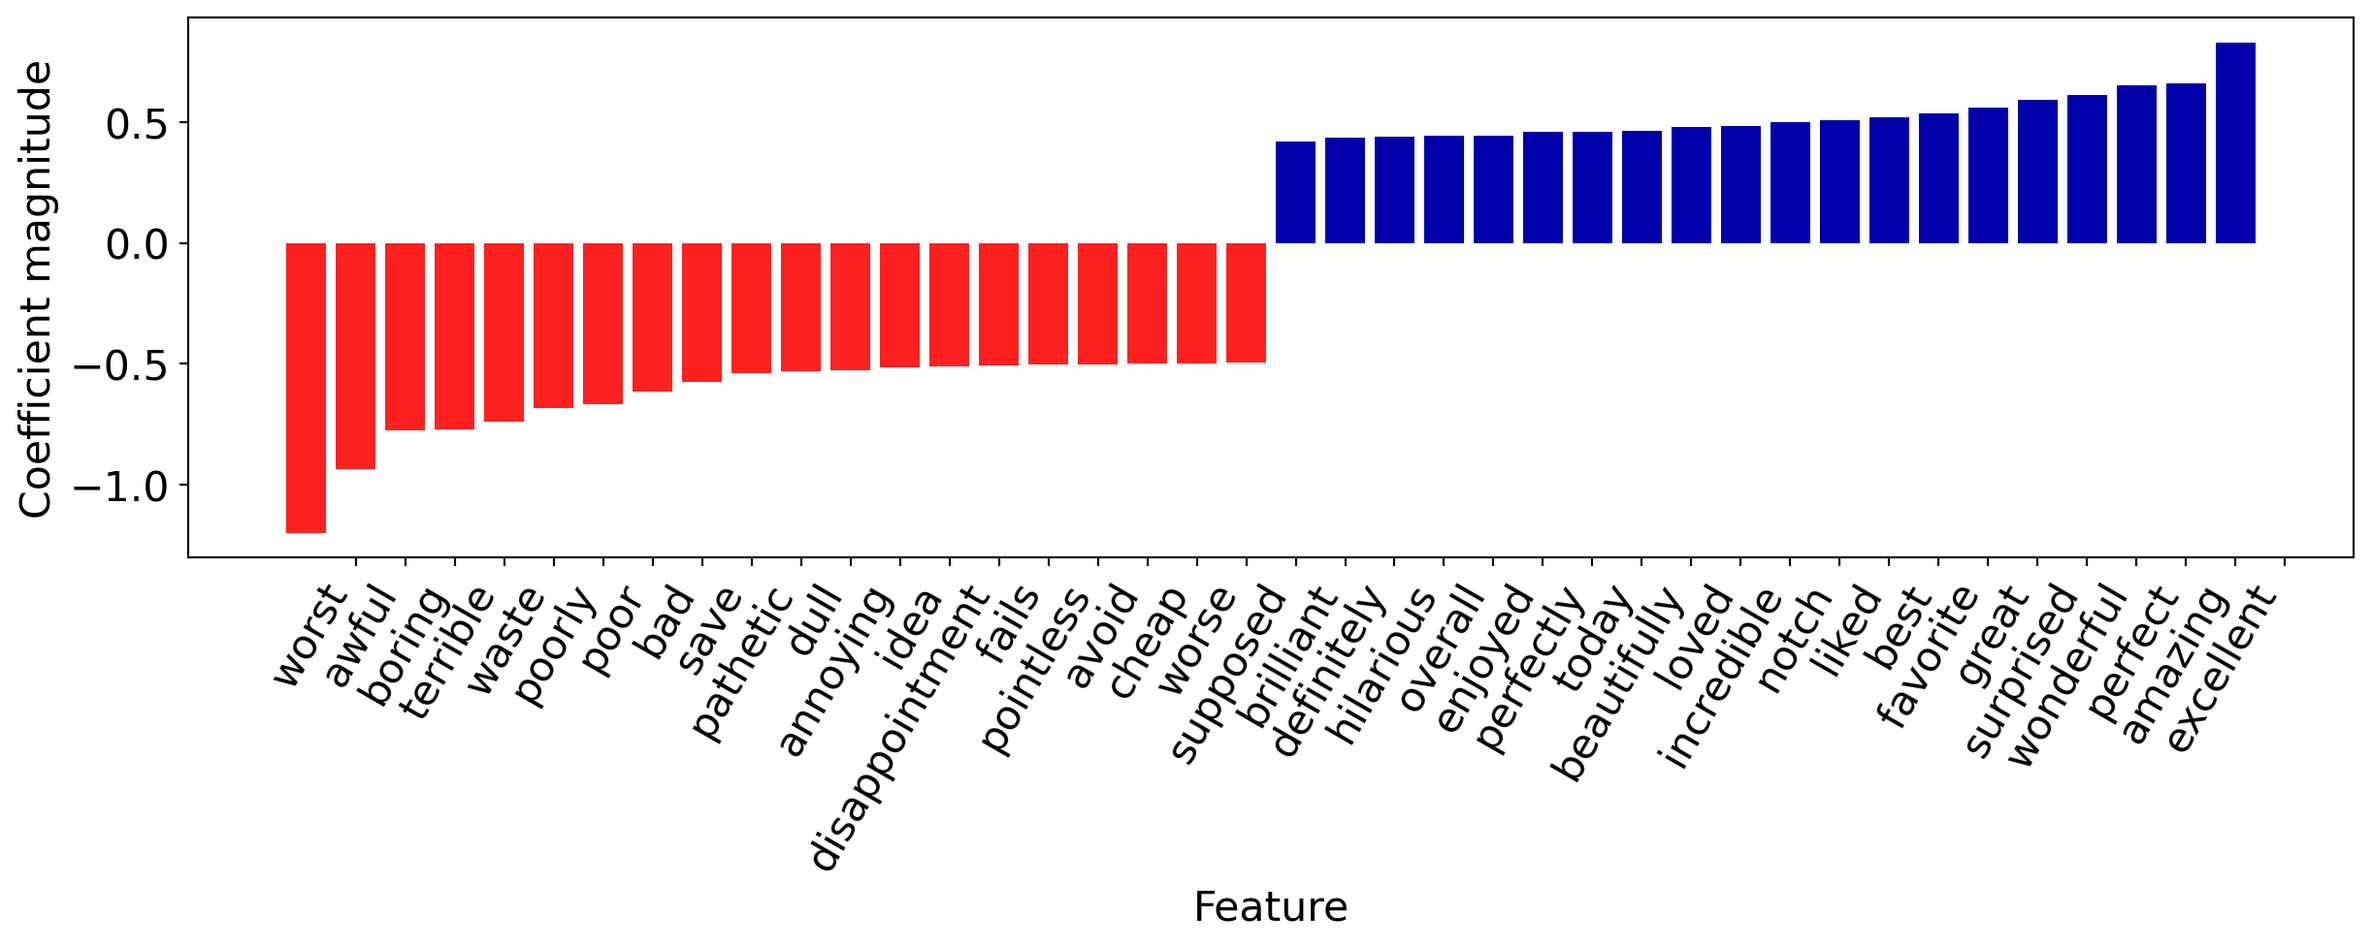
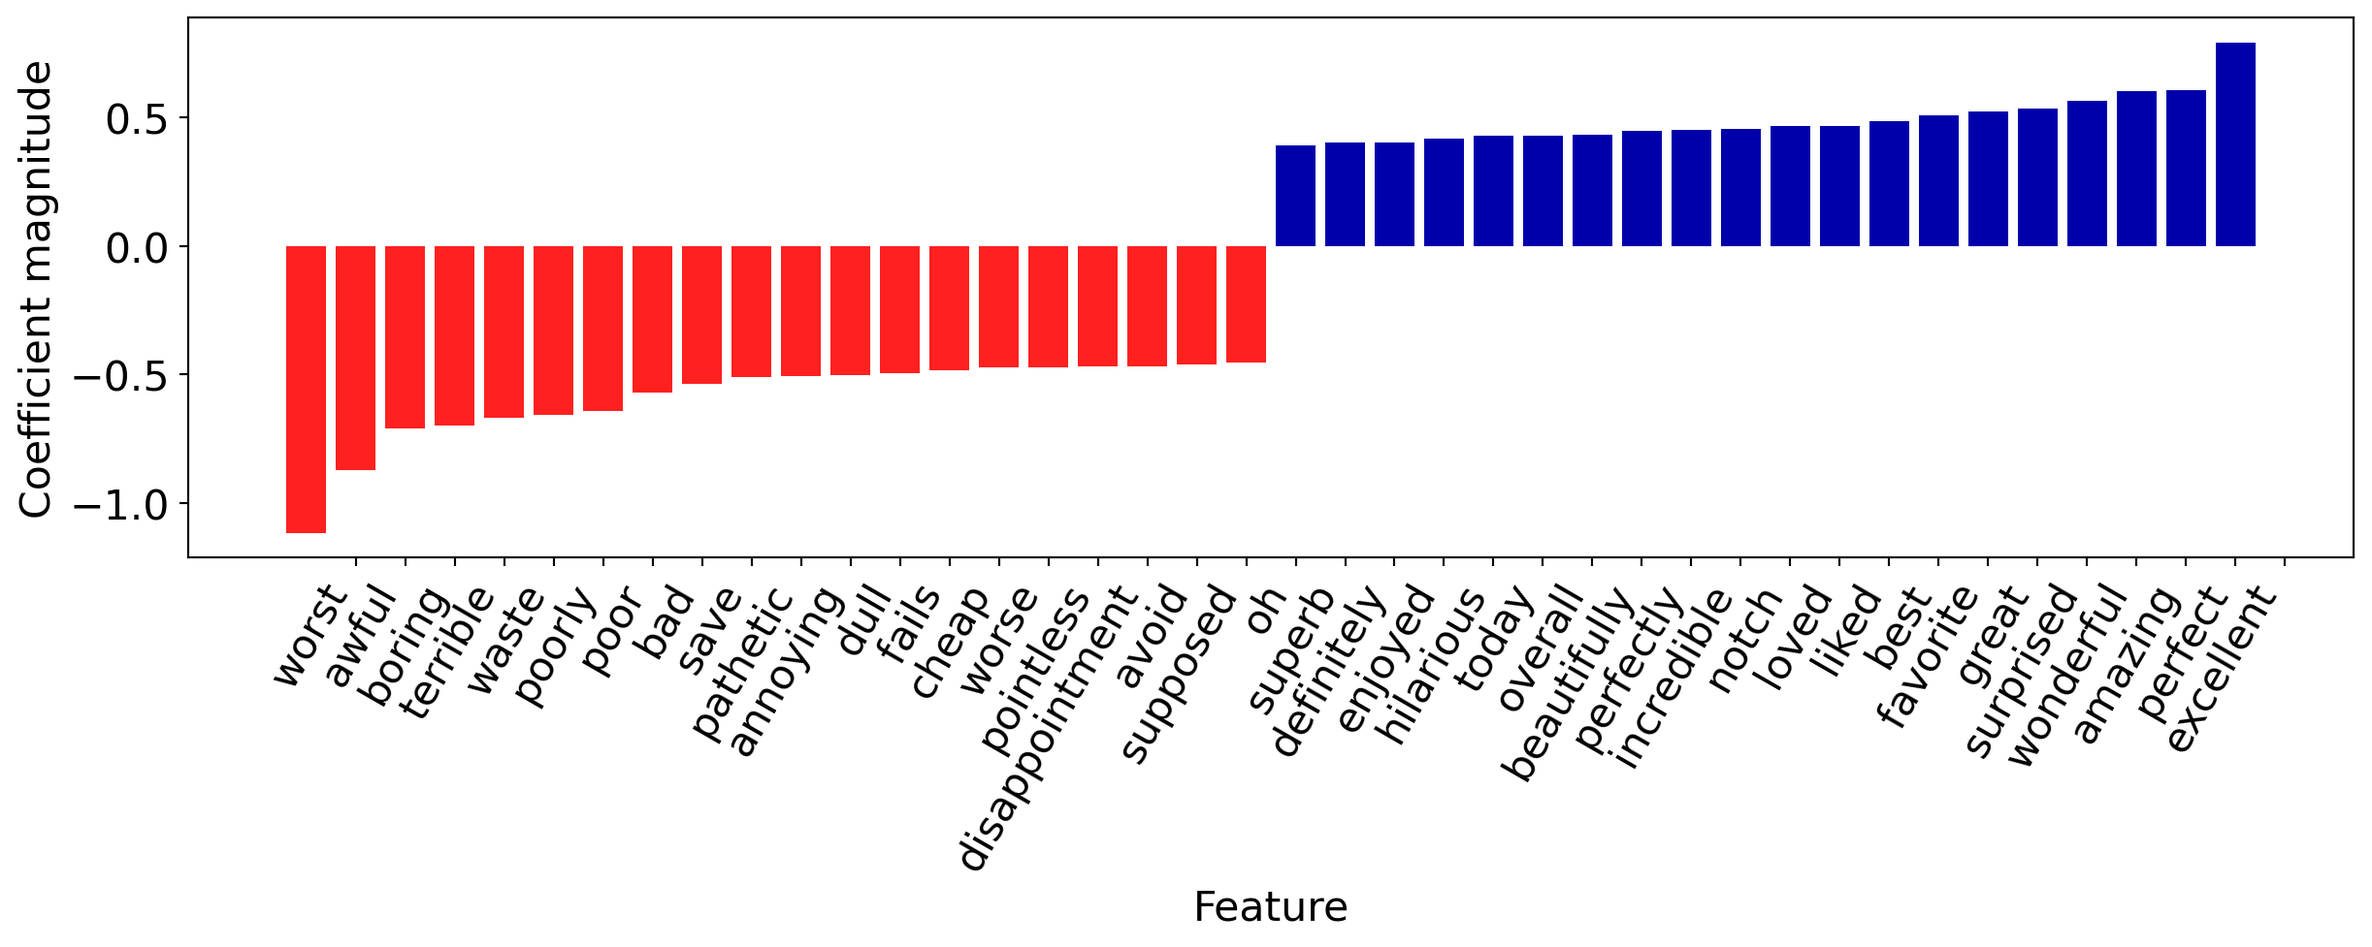
Built site for gh-pages

diff --git a/slides/slides-03-ml-models.html b/slides/slides-03-ml-models.html
@@ -492,11 +492,11 @@
 <h2>Sentiment Analysis: An Example</h2>
 <p><br>
 Let us attempt to use logistic regression to do sentiment analysis on a database of IMDB reviews. The database is available <a href="https://www.kaggle.com/datasets/lakshmi25npathi/imdb-dataset-of-50k-movie-reviews?resource=download">here</a>.</p>
-<div id="11a88c7f" class="cell" data-execution_count="2">
+<div id="220ceefd" class="cell" data-execution_count="2">
 <div class="sourceCode cell-code" id="cb1"><pre class="sourceCode numberSource python number-lines code-with-copy"><code class="sourceCode python"><span id="cb1-1"><a></a>imdb_df <span class="op">=</span> pd.read_csv(<span class="st">"data/imdb_master.csv"</span>, encoding<span class="op">=</span><span class="st">"ISO-8859-1"</span>)</span>
 <span id="cb1-2"><a></a>imdb_df.rename(columns<span class="op">=</span>{<span class="st">"sentiment"</span>: <span class="st">"label"</span>}, inplace <span class="op">=</span> <span class="va">True</span>)</span></code><button title="Copy to Clipboard" class="code-copy-button"><i class="bi"></i></button></pre></div>
 </div>
-<div id="e8776c59" class="cell" data-execution_count="3">
+<div id="73afe7d8" class="cell" data-execution_count="3">
 <div class="cell-output cell-output-display" data-execution_count="3">
 <div>
 <style scoped="">
@@ -559,13 +559,13 @@ Let us attempt to use logistic regression to do sentiment analysis on a database
 <h2>Bag of Words</h2>
 <p><br>
 To create features that logistic regression can use, we will represent these reviews via a “bag of words” strategy.</p>
-<p>We create a new feature for every word that appears in the dataset. Then, if a review contains that word the corresponding feature gets a value of 1 for that review. If the word is not present, it’s marked as 0.</p>
+<p>We create a new feature for every word that appears in the dataset. Then, if a review contains that word exactly once, the corresponding feature gets a value of 1 for that review. If the word appears four times, the feature gets a value of 4. If the word is not present, it’s marked as 0.</p>
 </section>
 <section id="bag-of-words-1" class="slide level2 center">
 <h2>Bag of Words</h2>
 <p><br>
 Notice that the result is a sparse matrix. Most reviews contain only a small number of words.</p>
-<div id="0f0dcdae" class="cell" data-execution_count="5">
+<div id="940dbdcb" class="cell" data-execution_count="5">
 <div class="sourceCode cell-code" id="cb2"><pre class="sourceCode numberSource python number-lines code-with-copy"><code class="sourceCode python"><span id="cb2-1"><a></a>vec <span class="op">=</span> CountVectorizer(stop_words<span class="op">=</span><span class="st">"english"</span>)</span>
 <span id="cb2-2"><a></a>bow <span class="op">=</span> vec.fit_transform(X_train)</span>
 <span id="cb2-3"><a></a>bow</span></code><button title="Copy to Clipboard" class="code-copy-button"><i class="bi"></i></button></pre></div>
@@ -575,7 +575,7 @@ Notice that the result is a sparse matrix. Most reviews contain only a small num
 </div>
 </div>
 <p>There are a total of 38867 “words” among the reviews. Here are some of them:</p>
-<div id="e3419ca3" class="cell" data-execution_count="6">
+<div id="f32f6917" class="cell" data-execution_count="6">
 <div class="cell-output cell-output-display" data-execution_count="6">
 <pre><code>array(['00', 'affection', 'apprehensive', 'barbara', 'blore',
        'businessman', 'chatterjee', 'commanding', 'cramped', 'defining',
@@ -591,7 +591,7 @@ Notice that the result is a sparse matrix. Most reviews contain only a small num
 <section id="checking-the-class-counts" class="slide level2 center">
 <h2>Checking the class counts</h2>
 <p>Let us see how many reviews are positive, and how many are negative. &nbsp;</p>
-<div id="3129492a" class="cell" data-execution_count="7">
+<div id="02f3ea82" class="cell" data-execution_count="7">
 <div class="sourceCode cell-code" id="cb5"><pre class="sourceCode numberSource python number-lines code-with-copy"><code class="sourceCode python"><span id="cb5-1"><a></a>y_train.value_counts()</span></code><button title="Copy to Clipboard" class="code-copy-button"><i class="bi"></i></button></pre></div>
 <div class="cell-output cell-output-display" data-execution_count="7">
 <pre><code>label
@@ -615,7 +615,7 @@ Name: count, dtype: int64</code></pre>
 <p><br>
 </p>
 <p>Let’s see how the model performs after training.</p>
-<div id="3187cab3" class="cell" data-execution_count="8">
+<div id="fe149da6" class="cell" data-execution_count="8">
 <div class="cell-output cell-output-display" data-execution_count="8">
 <div>
 <style scoped="">
@@ -645,36 +645,36 @@ Name: count, dtype: int64</code></pre>
 <tbody>
 <tr class="odd">
 <td data-quarto-table-cell-role="th">0</td>
-<td>0.414605</td>
-<td>0.064162</td>
+<td>0.411476</td>
+<td>0.058247</td>
 <td>0.828</td>
 <td>0.99975</td>
 </tr>
 <tr class="even">
 <td data-quarto-table-cell-role="th">1</td>
-<td>0.405794</td>
-<td>0.063070</td>
+<td>0.407961</td>
+<td>0.059842</td>
 <td>0.830</td>
 <td>0.99975</td>
 </tr>
 <tr class="odd">
 <td data-quarto-table-cell-role="th">2</td>
-<td>0.397011</td>
-<td>0.061530</td>
+<td>0.422086</td>
+<td>0.058663</td>
 <td>0.848</td>
 <td>0.99975</td>
 </tr>
 <tr class="even">
 <td data-quarto-table-cell-role="th">3</td>
-<td>0.384352</td>
-<td>0.060801</td>
+<td>0.408087</td>
+<td>0.057880</td>
 <td>0.833</td>
 <td>1.00000</td>
 </tr>
 <tr class="odd">
 <td data-quarto-table-cell-role="th">4</td>
-<td>0.380680</td>
-<td>0.062513</td>
+<td>0.397947</td>
+<td>0.059378</td>
 <td>0.840</td>
 <td>0.99975</td>
 </tr>
@@ -706,7 +706,7 @@ We’re able to predict with roughly 84% accuracy on validation sets. Looks like
 <p><br>
 </p>
 <p>Let’s see what associations our model learned.</p>
-<div id="912cf319" class="cell" data-execution_count="10">
+<div id="6039ffdf" class="cell" data-execution_count="10">
 <div class="cell-output cell-output-display" data-execution_count="10">
 <div>
 <style scoped="">
@@ -733,23 +733,23 @@ We’re able to predict with roughly 84% accuracy on validation sets. Looks like
 <tbody>
 <tr class="odd">
 <td data-quarto-table-cell-role="th">excellent</td>
-<td>0.829925</td>
+<td>0.792911</td>
 </tr>
 <tr class="even">
-<td data-quarto-table-cell-role="th">amazing</td>
-<td>0.659019</td>
+<td data-quarto-table-cell-role="th">perfect</td>
+<td>0.608851</td>
 </tr>
 <tr class="odd">
-<td data-quarto-table-cell-role="th">perfect</td>
-<td>0.652637</td>
+<td data-quarto-table-cell-role="th">amazing</td>
+<td>0.602716</td>
 </tr>
 <tr class="even">
 <td data-quarto-table-cell-role="th">wonderful</td>
-<td>0.614264</td>
+<td>0.564188</td>
 </tr>
 <tr class="odd">
 <td data-quarto-table-cell-role="th">surprised</td>
-<td>0.591126</td>
+<td>0.536449</td>
 </tr>
 <tr class="even">
 <td data-quarto-table-cell-role="th">...</td>
@@ -757,28 +757,28 @@ We’re able to predict with roughly 84% accuracy on validation sets. Looks like
 </tr>
 <tr class="odd">
 <td data-quarto-table-cell-role="th">waste</td>
-<td>-0.741045</td>
+<td>-0.669122</td>
 </tr>
 <tr class="even">
 <td data-quarto-table-cell-role="th">terrible</td>
-<td>-0.771132</td>
+<td>-0.697831</td>
 </tr>
 <tr class="odd">
 <td data-quarto-table-cell-role="th">boring</td>
-<td>-0.774340</td>
+<td>-0.709981</td>
 </tr>
 <tr class="even">
 <td data-quarto-table-cell-role="th">awful</td>
-<td>-0.937574</td>
+<td>-0.870623</td>
 </tr>
 <tr class="odd">
 <td data-quarto-table-cell-role="th">worst</td>
-<td>-1.200254</td>
+<td>-1.117365</td>
 </tr>
 </tbody>
 </table>
 
-<p>15102 rows × 1 columns</p>
+<p>5775 rows × 1 columns</p>
 </div>
 </div>
 </div>
@@ -789,7 +789,7 @@ We’re able to predict with roughly 84% accuracy on validation sets. Looks like
 <p><br>
 </p>
 <p>They make sense! Let’s visualize the 20 most important features.</p>
-<div id="8d18ffcc" class="cell" data-execution_count="11">
+<div id="fdc6f40c" class="cell" data-execution_count="11">
 <div class="cell-output cell-output-display">
 <div>
 <figure>
@@ -805,14 +805,14 @@ We’re able to predict with roughly 84% accuracy on validation sets. Looks like
 </p>
 <p>Finally, let’s try predicting on some new examples.<br>
 </p>
-<div id="c9a246fa" class="cell" data-execution_count="12">
+<div id="b7ea4de7" class="cell" data-execution_count="12">
 <div class="cell-output cell-output-display" data-execution_count="12">
 <pre><code>['It got a bit boring at times but the direction was excellent and the acting was flawless. Overall I enjoyed the movie and I highly recommend it!',
  'The plot was shallower than a kiddie pool in a drought, but hey, at least we now know emojis should stick to texting and avoid the big screen.']</code></pre>
 </div>
 </div>
 <p>Here are the model predictions:</p>
-<div id="5e11d392" class="cell" data-execution_count="13">
+<div id="07b7af7d" class="cell" data-execution_count="13">
 <div class="cell-output cell-output-display" data-execution_count="13">
 <pre><code>array(['positive', 'negative'], dtype=object)</code></pre>
 </div>
@@ -824,7 +824,7 @@ We’re able to predict with roughly 84% accuracy on validation sets. Looks like
 <section id="understanding-predictions" class="slide level2 center">
 <h2>Understanding Predictions</h2>
 <div class="scroll-container" style="overflow-y: scroll; height: 400px;">
-<div id="dd3c993e" class="cell" data-execution_count="14">
+<div id="fc00820f" class="cell" data-execution_count="14">
 <div class="cell-output cell-output-stdout">
 <pre><code>It got a bit boring at times but the direction was excellent and the acting was flawless. Overall I enjoyed the movie and I highly recommend it!</code></pre>
 </div>

diff --git a/slides/slides-02-ml-intro.html b/slides/slides-02-ml-intro.html
@@ -348,7 +348,7 @@ Machine Learning uses computer programs to digest and accurately model data. Aft
 <section id="activity-1" class="slide level2 center">
 <h2>Activity 1</h2>
 <p><br>
-Write one (or several) problems in your research field where you think Machine Learning could be applied. Try to address the following questions:</p>
+Write one (or several) problems in your area of work where you think Machine Learning could be applied. Try to address the following questions:</p>
 <ul>
 <li>What goal are you trying to accomplish? What would an ideal solution to your problem look like?</li>
 <li>How would a human solve this problem? What approaches are presently available and utilized?</li>
@@ -399,10 +399,13 @@ Write one (or several) problems in your research field where you think Machine L
 <section id="types-of-machine-learning" class="slide level2 center">
 <h2>Types of Machine Learning</h2>
 <p><br>
-Today we will see two main types of machine learning, namely</p>
+There are many kinds of machine learning, including</p>
 <ul>
-<li><p>Supervised Learning, and</p></li>
-<li><p>Unsupervised Learning.</p></li>
+<li><p>Supervised Learning (which we’ll talk about a lot)</p></li>
+<li><p>Unsupervised Learning</p></li>
+<li><p>Semi-supervised learning</p></li>
+<li><p>Reinforcement Learning</p></li>
+<li><p>Generative AI</p></li>
 </ul>
 <p>We will also discuss which problems each type might be best suited for.</p>
 </section>
@@ -411,19 +414,7 @@ Today we will see two main types of machine learning, namely</p>
 <p><br>
 Here the training data is comprised of a set of <em>features</em>, and each example comes with a corresponding <em>target</em>. The goal is to get a machine learning model to accurately predict the target based on the feature values.</p>
 <p>Examples could include spam filtering, face recognition or weather forecasting.</p>
-</section>
-<section id="unsupervised-learning" class="slide level2 center">
-<h2>Unsupervised Learning</h2>
-<p><br>
-In unsupervised learning, there are no targets. The goal is instead to uncover underlying patterns. These can be used to provide a concise summary of the data, or group similar examples together.</p>
-<p>Examples could include customer segmentation, anomaly detection or online recommendation systems (think Netflix).</p>
-</section>
-<section id="other-ml-types" class="slide level2 center">
-<h2>Other ML types</h2>
-<p><br>
-Some other types of Machine Learning include self-supervised learning and reinforcement learning.</p>
-<p>Self-supervised algorithms automatically learn to generate labels and transform unsupervised problems to supervised ones.</p>
-<p>Reinforcement Leaning trains an agent using a system of rewards and penalties. The agent learns strategies to maximize reward. AlphaGo is a reinforcement learning agent that taught itself to play Go, and was able to beat the strongest human Go players.</p>
+<p>By contrast, in unsupervised learning there are no targets. The goal is instead to uncover underlying patterns. These can be used to provide a concise summary of the data, or group similar examples together. Examples could include customer segmentation, anomaly detection or online recommendation systems (think Netflix).</p>
 </section>
 <section id="activity-2" class="slide level2 center">
 <h2>Activity 2</h2>
@@ -436,7 +427,7 @@ Some other types of Machine Learning include self-supervised learning and reinfo
 <p><br>
 We will use a simple machine learning model– a decision tree– to demonstrate some fundamental concepts in machine learning. Suppose we have the following dataset:<br>
 </p>
-<div id="6bb353be" class="cell" data-execution_count="1">
+<div id="c60f5307" class="cell" data-execution_count="1">
 <div class="cell-output cell-output-display" data-execution_count="1">
 <div>
 <style scoped="">
@@ -541,7 +532,7 @@ A decision tree iteratively splits the data by asking questions about feature va
 <h2>A Decision Stump</h2>
 <p><br>
 </p>
-<div id="61fb9bdf" class="cell" data-execution_count="2">
+<div id="b32a7752" class="cell" data-execution_count="2">
 <div class="cell-output cell-output-display">
 <div>
 <figure>
@@ -555,7 +546,7 @@ A decision tree iteratively splits the data by asking questions about feature va
 <section id="iterating-the-procedure" class="slide level2 center">
 <h2>Iterating the procedure</h2>
 <p>&nbsp;</p>
-<div id="de5f2f56" class="cell" data-execution_count="3">
+<div id="ef0d7c95" class="cell" data-execution_count="3">
 <div class="cell-output cell-output-display">
 <div>
 <figure>
@@ -569,7 +560,7 @@ A decision tree iteratively splits the data by asking questions about feature va
 <section id="building-a-decision-tree" class="slide level2 center">
 <h2>Building a Decision Tree</h2>
 <p>&nbsp;</p>
-<div id="c0ff176e" class="cell" data-execution_count="4">
+<div id="f0b10eb5" class="cell" data-execution_count="4">
 <div class="cell-output cell-output-display">
 <div>
 <figure>
@@ -607,7 +598,7 @@ To demonstrate some fundamental concepts in machine learning, we will attempt to
 <h2>A Look at the Data</h2>
 <p><br>
 Each photo is 64x64 pixels in grayscale. The images are represented by a row of pixel intensities showing how dark each individual pixel should be.</p>
-<div id="d5146fc2" class="cell" data-execution_count="5">
+<div id="f40518e4" class="cell" data-execution_count="5">
 <div class="cell-output cell-output-display" data-execution_count="5">
 <div>
 <style scoped="">
@@ -731,7 +722,7 @@ Each photo is 64x64 pixels in grayscale. The images are represented by a row of 
 </div>
 </div>
 </div>
-<div id="751ab584" class="cell" data-execution_count="6">
+<div id="56d9511b" class="cell" data-execution_count="6">
 <div class="cell-output cell-output-stdout">
 <pre><code>The dataset has 4096 features.</code></pre>
 </div>
@@ -747,7 +738,7 @@ We can build a decision tree classifier on the dataset of faces and see how it p
 <h2>A Decision Tree Classifier</h2>
 <p><br>
 </p>
-<div id="57070131" class="cell" data-execution_count="7">
+<div id="b0bcbb6a" class="cell" data-execution_count="7">
 <div class="cell-output cell-output-stdout">
 <pre><code>The model classified 100.0% of training examples correctly by 
  building a decision tree of depth 41</code></pre>
@@ -761,9 +752,9 @@ That’s very accurate indeed! Maybe decision trees are a really good way to det
 <h2>Did we build a good model?</h2>
 <p><br>
 </p>
-<div id="52be862f" class="cell" data-execution_count="8">
+<div id="5e6d458b" class="cell" data-execution_count="8">
 <div class="cell-output cell-output-stdout">
-<pre><code>The model acheived an accuracy of 52.5% on new data</code></pre>
+<pre><code>The model acheived an accuracy of 45.0% on new data</code></pre>
 </div>
 </div>
 <p><br>
@@ -771,7 +762,7 @@ That’s very accurate indeed! Maybe decision trees are a really good way to det
 </section>
 <section id="whats-going-on" class="slide level2 center">
 <h2>What’s going on?</h2>
-<div id="906f5451" class="cell" data-execution_count="9">
+<div id="cfa9d4ae" class="cell" data-execution_count="9">
 <div class="cell-output cell-output-display">
 <div>
 <figure>
@@ -785,7 +776,7 @@ That’s very accurate indeed! Maybe decision trees are a really good way to det
 <h2>Practice makes perfect</h2>
 <p><br>
 Our deep decision tree likely just memorized the dataset. After all, with a tree of depth 38, we could actually memorize up to 2<sup>38</sup> distinct examples!</p>
-<p>Clearly this does not make for a good model. After all, we want a model that can recognize faces, even when they appear in new images.</p>
+<p>Clearly this does not make for a good model. We want a model that can recognize faces, even when they appear in new images.</p>
 </section>
 <section id="overfitting" class="slide level2 center">
 <h2>Overfitting</h2>
@@ -814,7 +805,7 @@ Your colleague is trying to build a machine learning model to detect cancers in 
 <p><br>
 By using the same test set for each of the 10,000 models they tried, your colleague has violated the <em>golden rule of machine learning</em>.</p>
 <p>The golden rule tells us that <strong>test data must not influence the model training in any way</strong>.</p>
-<p>Even though your colleague never directly trained on test data, they used test data multiple times to validate model performance. As a result, they are likely to have found good performance <em>purely by accident</em>.</p>
+<p>Even though your colleague never directly trained on test data, they used test data multiple times to validate model performance. As a result, they may have found good performance <em>purely by accident</em>.</p>
 </section>
 <section id="scenario-2" class="slide level2 center">
 <h2>Scenario 2</h2>

diff --git a/workshop-04-break.html b/workshop-04-break.html
@@ -677,7 +677,7 @@ window.document.addEventListener("DOMContentLoaded", function (event) {
   </div>
 </nav>
 </div> <!-- /content -->
-<script>var lightboxQuarto = GLightbox({"selector":".lightbox","closeEffect":"zoom","openEffect":"zoom","loop":false,"descPosition":"bottom"});
+<script>var lightboxQuarto = GLightbox({"closeEffect":"zoom","selector":".lightbox","descPosition":"bottom","openEffect":"zoom","loop":false});
 (function() {
   let previousOnload = window.onload;
   window.onload = () => {

diff --git a/workshop-07-lunch.html b/workshop-07-lunch.html
@@ -677,7 +677,7 @@ window.document.addEventListener("DOMContentLoaded", function (event) {
   </div>
 </nav>
 </div> <!-- /content -->
-<script>var lightboxQuarto = GLightbox({"openEffect":"zoom","selector":".lightbox","descPosition":"bottom","loop":false,"closeEffect":"zoom"});
+<script>var lightboxQuarto = GLightbox({"selector":".lightbox","loop":false,"descPosition":"bottom","openEffect":"zoom","closeEffect":"zoom"});
 (function() {
   let previousOnload = window.onload;
   window.onload = () => {

diff --git a/workshop-10-break.html b/workshop-10-break.html
@@ -677,7 +677,7 @@ window.document.addEventListener("DOMContentLoaded", function (event) {
   </div>
 </nav>
 </div> <!-- /content -->
-<script>var lightboxQuarto = GLightbox({"selector":".lightbox","closeEffect":"zoom","descPosition":"bottom","loop":false,"openEffect":"zoom"});
+<script>var lightboxQuarto = GLightbox({"closeEffect":"zoom","selector":".lightbox","descPosition":"bottom","loop":false,"openEffect":"zoom"});
 (function() {
   let previousOnload = window.onload;
   window.onload = () => {

diff --git a/lab/example.html b/lab/example.html
@@ -645,7 +645,7 @@ window.document.addEventListener("DOMContentLoaded", function (event) {
 });
 </script>
 </div> <!-- /content -->
-<script>var lightboxQuarto = GLightbox({"openEffect":"zoom","closeEffect":"zoom","loop":false,"descPosition":"bottom","selector":".lightbox"});
+<script>var lightboxQuarto = GLightbox({"closeEffect":"zoom","openEffect":"zoom","loop":false,"selector":".lightbox","descPosition":"bottom"});
 (function() {
   let previousOnload = window.onload;
   window.onload = () => {
